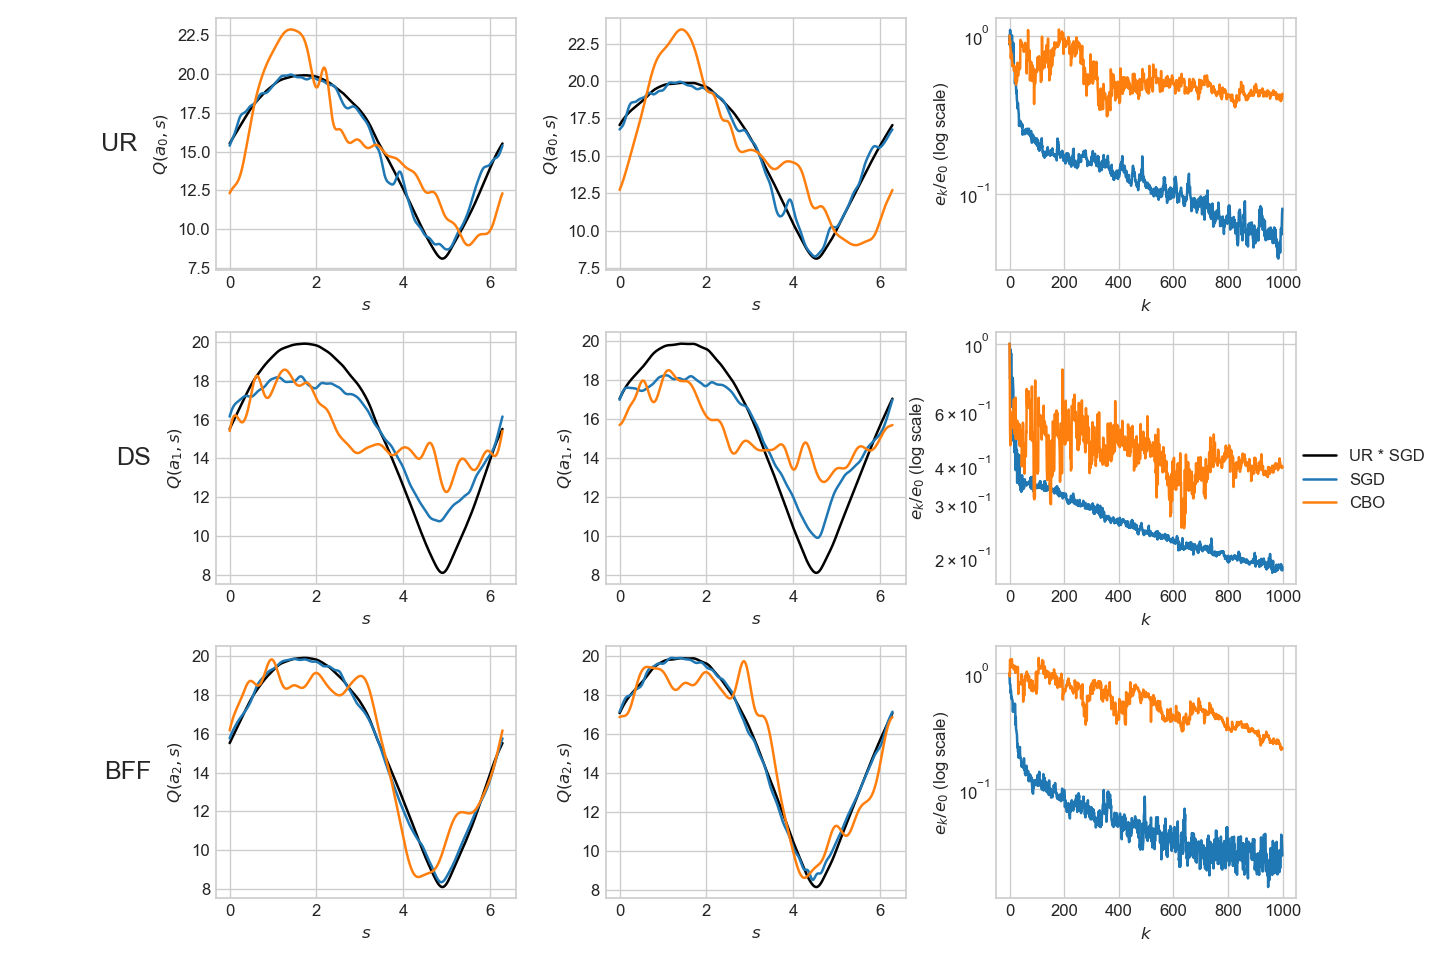
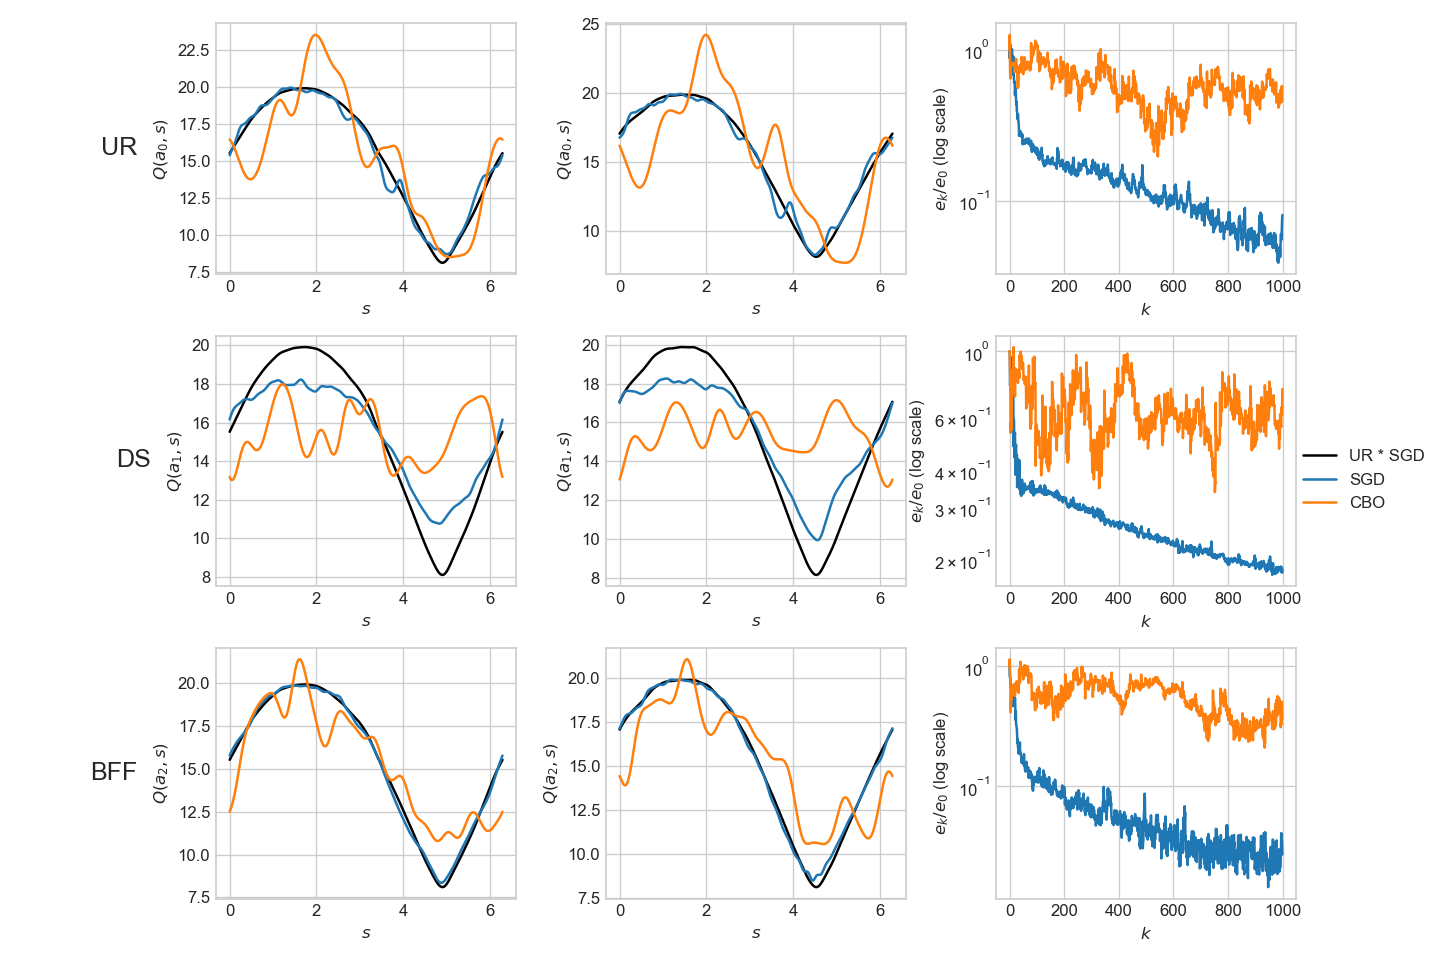
added some hyperparameter tuning with hyperopt

diff --git a/CBO_RL_full.py b/CBO_RL_full.py
@@ -775,7 +775,7 @@ plotQ(Q_s,e_s,lb_s,Q_ctrl_UR_SGD_star,"UR *")
 # %%
 def Q_CBO_gen(L_f):
     def algo(Q_net=Net(), N=30, m=1000, epochs=100, S=S,A_idx=A_idx, R=R, a_s=a_s, π=π,σ=σ,ϵ=ϵ,γ=0.9,λ=1.,δ = 1e-3,
-             τ_k=lambda k:0.1, η_k=lambda k:0.5, β_k=lambda k:10, Q_net_comp=None, n_comp=1000):
+             τ_k=lambda k:0.1, η_k=lambda k:0.5, β_k=lambda k:10, Q_net_comp=None, n_comp=1000, early_stop=None):
         with torch.no_grad():
             Q_θ = [Net() for _ in range(N)]
             rem = torch.tensor([])
@@ -789,6 +789,8 @@ def Q_CBO_gen(L_f):
             for k in trange(epochs, leave=False, position=0, desc="Epoch"):
                 A, rem = gen_batches(n-2,m, rem)
                 for A_θ in tqdm(A,leave=False, position=0, desc="Batch"):
+                    if early_stop and i>early_stop:
+                        continue
                     β = β_k(i)
                     τ = τ_k(i)  
                     η = η_k(i)
@@ -858,12 +860,9 @@ N = 30
 m = 1000
 epochs = 1
 δ = 1e-5
-# η_k = lambda k: 0.5
-η_k = lambda k: max(0.6*0.998**k,0.4)
-# τ_k = lambda k: 0.1
-τ_k = lambda k: max(0.4*0.998**k,0.01)
-β_k = lambda k: min(5*1.002**k,20.)
-# β_k = lambda k: min(30*1.002**k,80)
+η_k = lambda k: 0.5
+τ_k = lambda k: 0.4
+β_k = lambda k: 5.
 
 
 # %%
@@ -940,4 +939,49 @@ Q_dict = {
 }
 plotQ2(Q_dict, Q_ctrl_UR_SGD_star, "UR * SGD")
 plt.savefig("figs/Q_ctrl_SGD_CBO")
+# %%
+
+from hyperopt import hp, tpe, Trials, fmin
+# %%
+space = {
+    "r_η_0": hp.lognormal("r_η_0",1.,1.),
+    "r_τ_0": hp.lognormal("r_τ_0",1.,1.),
+    "r_β_0": hp.lognormal("r_β_0",1.,1.),
+}
+def fn(params):
+    r_η_0, r_τ_0, r_β_0 = [params[p] for p in ["r_η_0","r_τ_0","r_β_0"]]
+    _, e_BFF = Q_CBO_gen(Q_ctrl_BFF_CBO_L)(
+        N=30, m=1000, epochs=1, 
+        τ_k=lambda k:0.5*(2-r_τ_0)**k,
+        η_k=lambda k:0.4*(2-r_τ_0)**k,
+        β_k=lambda k:5*(r_β_0)**k,
+        δ = 1e-5,
+        Q_net_comp = Q_ctrl_UR_SGD_star, early_stop=50)
+    r = np.log(e_BFF[-1]/e_BFF[0])
+    return r.item()
+
+tpe_trials = Trials()
+best = fmin(
+    fn=fn,
+    space=space,
+    algo=tpe.suggest,
+    trials=tpe_trials,
+    max_evals=25
+)
+
+# %%
+import pandas as pd
+tpd_results = pd.DataFrame(
+    {
+        **{"loss":[x["loss"] for x in tpe_trials.results]},
+        **{p:tpe_trials.idxs_vals[1][p] for p in ["r_η_0","r_τ_0","r_β_0"]}
+    })
+plt.figure()
+plt.plot(tpd_results["loss"])
+plt.title("loss")
+for p in  ["r_η_0","r_τ_0","r_β_0"]:
+    plt.figure()
+    plt.plot(tpd_results[p])
+    plt.title(p)
+tpd_results
 # %%

diff --git a/report.md b/report.md
@@ -30,52 +30,39 @@ $$
 
 - The SGD algorithm runs for a single epoch with the same initialization $\theta_0$. 
 - Error at step $k$, $e_k$ is defined as $e_k=\| V(\cdot,\theta_k)-V^*\|_{L^2}$. 
-- Reference $V^*(s)$ is computed by running Algorithm 1 for 10 epochs based on longer trajectory $\{s_m\}_{m=1}^{10^7}$, with $\tau=0.01$, $M=1000$.
+- Reference $V^*(s)$ is computed by running Algorithm 1 for 10 epochs based on longer trajectory $\{s_m\}_{m=1}^{10^7}$, with $\tau=0.01,$ $M=1000$.
 - We visualize relative error, $\log_{10}(e_k/e_0)$.
 
-- **NB**, I made one modification to paper:
+- **NB**, I made one modification from the paper:
   - Since $V(s,\theta)\mapsto V(s,\theta)+\delta$ is a symmetry in $f$, then a better way of measuring error, $e_k$, is 
 
 $$
 e_k=\| V(\cdot,\theta_k)-V^* - \mu_k \|_2,\quad \mu_k = \int V(\cdot,\theta_k)-V^*
 $$
 
-### SGD
+### SGD vs CBO
 
-- Algo 1*: Unrealistic, with 10 x longer sample trajectory
-
-- Algo 1: Unrealistic
-
-- Algo 2: Double Sampling
-
-- Algo 3: BFF - gradient
-
-- Algo 4: BFF - loss
-
-  ```python
-  M = 1000
-  epochs = 1
-  γ = 0.9
-  τ = 0.1
-  n = 100
-  ```
-  
-  ![](/home/franinsu/Documents/Lexing/CBO_RL/CBO_RL_files/CBO_RL_26_0.png)
-
-### CBO
-
+SGD Parameters:
 ```python
-N = int(1e2)
-M = int(1e2)
-m = int(1e4)
-epochs = 2000
-λ = 1.
-η_k = lambda k: max(0.005*0.99985**k,0.001) # Learning rate
-τ_k = lambda k: max(5*0.995**k, 0.01) # Exploration rate
-β_k = lambda k: min(50*1.0025**k,400.) # 1/Characteristic energy
+M = 1000
+epochs = 1
+γ = 0.9
+τ = 0.1
+n = 100
 ```
 
-![CBO_RL_37_0](/home/franinsu/Documents/Lexing/CBO_RL/CBO_RL_files/CBO_RL_37_0.png)
+CBO Paramaters:
+```python
+N = 30
+m = 1000
+epochs = 1
+δ = 1e-5 # Threshold of difference below which particles take a brownian motion step
+η_k = lambda k: max(0.5*0.998**k,0.01) # Learning rate
+τ_k = lambda k: max(0.1*0.998**k,0.01) # Exploration rate
+β_k = lambda k: min(30*1.002**k,80) # 1/Characteristic energy
+```
+
+![](/home/franinsu/Documents/Lexing/CBO_RL/figs/V_SGD_vs_CBO_yuhua.png)
 
 ## $Q$-evaluation and control, continuous state space (4.1.)
 
@@ -96,6 +83,7 @@ $$
 $$
 
 - 3 layer FCNN, $Q^\pi(s,a;\theta)$. Two hidden layers with $\cos$ activation function, and each hidden layer contains 50 neurons. Output layer of size $|\mathbb A|$.
+- Reference $Q^*$ is computed by running UR for 10 epochs based on longer trajectory $\{s_m\}_{m=1}^{10^7}$, with $\tau=0.01,$ $M=1000.$
 
 ### $Q$-evaluation
 
@@ -103,32 +91,34 @@ Estimating $Q^\pi$ for fixed policy $\pi(a|s)=1/2 + a \sin(s)/5$.
 $$
 j^{eval}(s_m, a_m, s_{m+1};\theta) = r(s_{m+1}, s_m, a_m)  + \gamma \int Q^\pi(s_{m+1},a;\theta)\pi(a|s_{m+1})da - Q^\pi(s_m,a_m;\theta)
 $$
-#### SGD
-
-```python
-M = int(1e4)
-epochs = 25
-τ_k = lambda k: 0.08*0.9**k
-```
-
-![](/home/franinsu/Documents/Lexing/CBO_RL/CBO_RL-2_files/CBO_RL-2_25_0.png)
 
 ### $Q$-control
 
 Fixed behavior policy to generate training trajectory, $\pi(a|s)=1/|\mathbb A|$.
 
-$$j^{ctrl}(s_m, a_m, s_m+1;\theta) = r(s_{m+1}, s_m, a_m)  + \gamma \max_{a'} Q^\pi(s_{m+1},a';\theta) - Q^\pi(s_m,a_m;\theta)$$
+$$
+j^{ctrl}(s_m, a_m, s_m+1;\theta) = r(s_{m+1}, s_m, a_m)  + \gamma \max_{a'} Q^\pi(s_{m+1},a';\theta) - Q^\pi(s_m,a_m;\theta)
+$$
 
-#### SGD
+#### SGD vs CBO
 
-```python
-M = int(1e4)
-epochs = 15
-τ_k = lambda k: 0.15*0.95**k
+SGD Parameters:
+
+```{python}
+τ = 0.1
+M = 1000
+epochs = 20
+```
+CBO Parameters:
+
+```{python}
+N = 30
+m = 1000
+epochs = 1
+δ = 1e-5
+η_k = lambda k: max(0.6*0.998**k,0.4)
+τ_k = lambda k: max(0.3*0.998**k,0.01)
+β_k = lambda k: min(5*1.002**k,20.)
 ```
 
-![](/home/franinsu/Documents/Lexing/CBO_RL/CBO_RL-2_files/CBO_RL-2_42_0.png)
-
-#### CBO
-
-![](/home/franinsu/Documents/Lexing/CBO_RL/CBO_RL-2_files/CBO_RL-2_51_0.png)
+![](/home/franinsu/Documents/Lexing/CBO_RL/figs/Q_ctrl_SGD_CBO.png)
